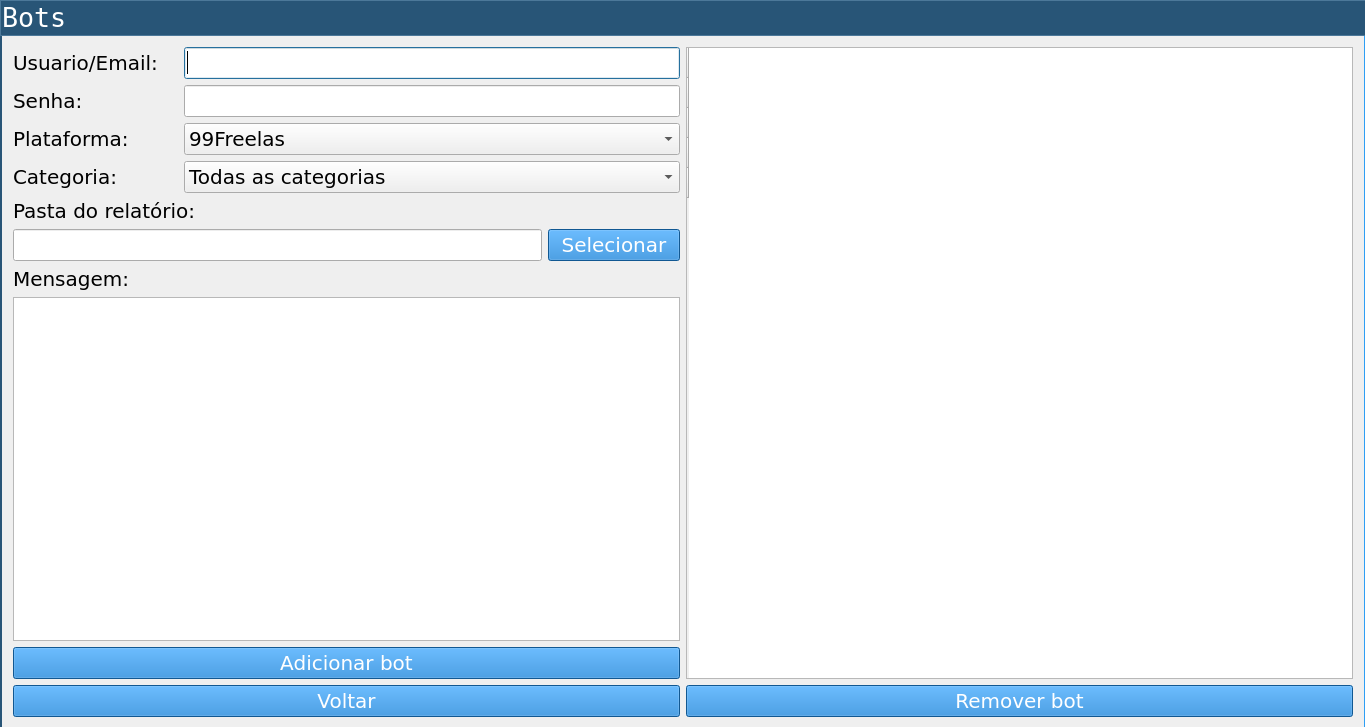
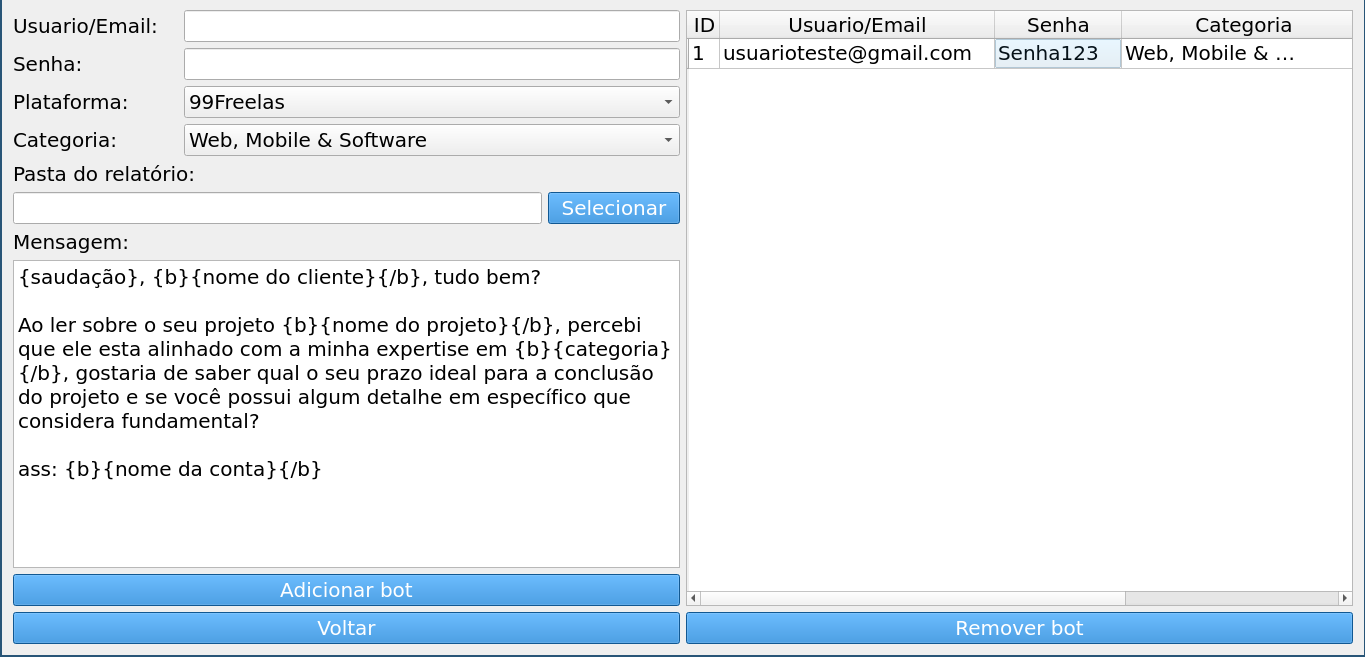
change image and add more info

diff --git a/docs/index.md b/docs/index.md
@@ -10,7 +10,7 @@ Instale os pacotes necessários com `pip install -r requirements.txt`
 
 Rode o arquivo `main.py`, essa interface vai se abrir
 
-![Janela principal](https://github.com/riguima/cray-freelas-bot/blob/main/docs/assets/main-window.png)
+![Janela principal](https://cray-freelas-bot.readthedocs.io/pt/latest/assets/main-window.png)
 
 Clicando em rodar ele rodar o processo para todos os bots que foram criados, os bots
 ficam monitorando por projetos novos para mandar mensagens a cada 10 minutos,
@@ -21,12 +21,24 @@ na plataforma, mas isso só será necessário na primeira vez que rodar o bot
 
 Clique em Bots, uma janela para criação e remoção de bots vai se abrir
 
-![Janela Bots](https://github.com/riguima/cray-freelas-bot/blob/main/docs/assets/bots-window.png)
+![Janela Bots](https://cray-freelas-bot.readthedocs.io/pt/latest/assets/bots-window.png)
 
 Aqui poderá adicionar novos bots preenchendo os campos e clicando em "Adicionar bot"
 
 Os campos de Email e senha são para o login na plataforma
 
+O campo de caminho para relatório é a pasta onde será criada a planilha com todas
+as informações das mensagens enviadas
+
 O campo de mensagem precisa ter pelo menos 100 caracteres, pois o Workana não permite mensagens com menos que isso
+
+No campo de mensagens você pode colocar as seguintes marcações no texto que serão
+substituidas por outras informações:
+
+- {saudação} = Substitui por Bom dia, Boa tarde ou Boa noite de acordo com o horário
+- {nome do cliente} = Substitui pelo nome do cliente
+- {nome do projeto} = Substitui pelo nome do projeto
+- {categoria} = Substitui pela categoria do projeto, por exemplo: Web, Mobile & Software
+- {nome da conta} = Substitui pelo nome da conta na plataforma
 
 Você também pode selecionar os bots que deseja remover da tabela a direita e clicar em "Remover bots"
